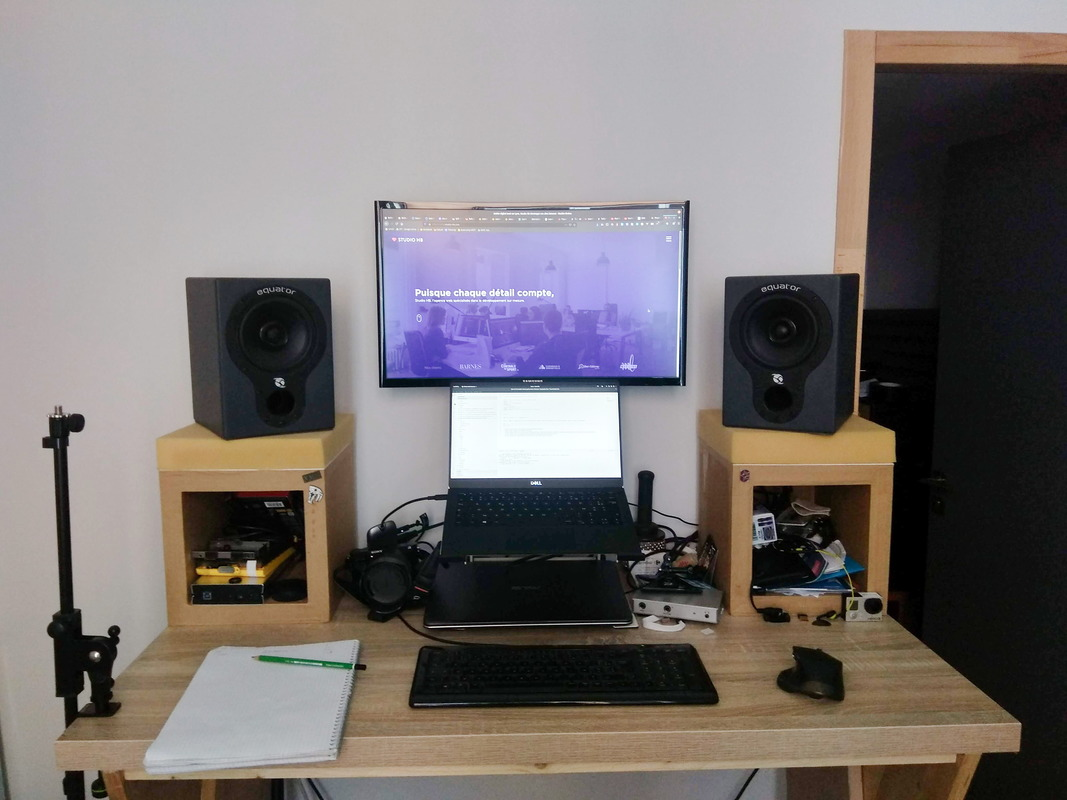
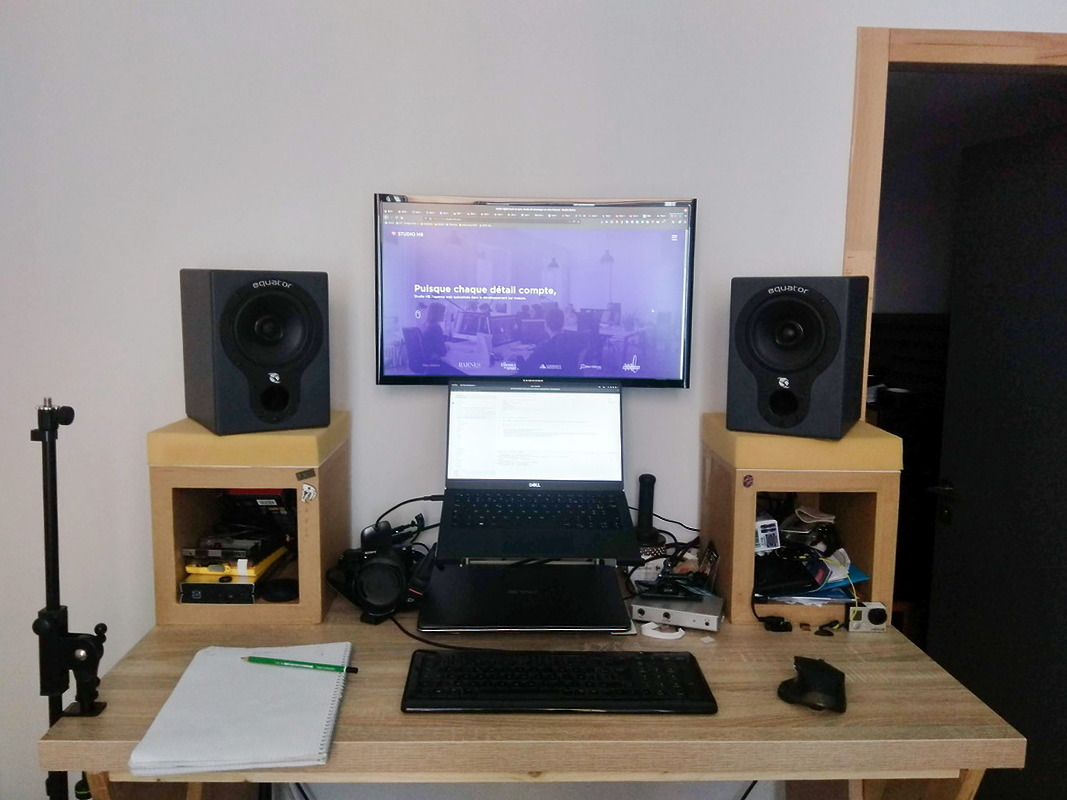
UP (article travail debout)

diff --git a/_posts/2020-09-10-travailler-debout-quelle-drole-d-idée.md b/_posts/2020-09-10-travailler-debout-quelle-drole-d-idée.md
@@ -4,26 +4,67 @@ layout: post
 author: lucasbiguetmermet
 categories:
   - Développement
-image: 2020/08/api.png
-image_caption: "Photo par: @victor_g sur Unsplash"
+image: 2020/09/linus.gif
+image_caption: "Linus Torvalds, inventeur de Linux, à son poste de travail / tapis-roulant"
 ---
 
-Intro
+En tant que développeur, je passe prêt de 7h par jour devant mon ordinateur, et comme la plupart de mes confrères (et [les trois quarts des Français](https://www.ouest-france.fr/sante/mal-de-dos-90-des-francais-assurent-en-souffrir-4872061)), j'ai fini pas developper des problèmes de dos: douleurs, faiblesses, raideurs pouvant conduire au fameux lumbago.
 
-### les dangers de la sédentarité
+Bon, se bloquer le dos c'est marrant cinq minutes, mais quand ça devient récurrent il est temps de faire quelque chose, surtout quand on n'a même pas 30 ans. J'ai donc décidé de chercher d'où ça pouvait venir.
 
-Selon l'OMS la sédentarité est un problème de santé publique mondiale, particulièrement dans les pays développés
+## Les dangers de la sédentarité
 
-## Mon setup
+Selon l'OMS la sédentarité est un problème de santé publique majeur, plus de 30% de la population mondiale est manque d'activité physique.
 
-{% include image.html img="2020/09/standup-desk-v1" caption="Le prototype" %}
-{% include image.html img="2020/09/standup-desk-v2" caption="Première version" %}
-{% include image.html img="2020/09/standup-desk-v3" caption="Seconde version avec un écran à bonne hauteur" %}
+Ces comportements ont des répercussions graves à long terme sur la santé en favorisant l'apparition de douleurs qui peuvent devenir chroniques, de troubles musculo squelettiques et en accroissant le risque de developper des maladies cardio-vasculaires, qui sont pour rappel la première cause de mortalité en France.
+
+**BONNE AMBIANCE**
+
+Pour ne rien arranger c'est un sujet plein de cercles vicieux, en effet ces troubles apparaissent progressivement à cause de postures qui n'envoient pas de signal d'alerte immédiatement: Comment cette chaise de bureau si innocente et si confortable pourrait m'en vouloir à ce point ?
+
+{% include image.html img="2020/09/back-pain-meme.jpg" caption="Open space de Studio HB: image d'archive" %}
+
+Heureusement, si on ne persiste pas trop longtemps dans ces comportements le remède est relativement simple: le mouvement ! Cependant le travail sur ordinateur n'incite pas vraiment à bouger, alors que faire ?
+
+## Travailler debout, la solution miracle ?
+
+Depuis quelques années les bureaux amovibles se démocratisent dans les open spaces, cela m'a intrigué.
+
+Suite au visionnage de cette [conférence un poil alarmiste mais néanmoins très intéressante](https://mixitconf.org/2019/sitting-considered-deadly) j'ai décidé de franchir le cap.
+
+Dans cette conférence il propose un bricolage de bureau debout pour pouvoir tester à moindre frais, j'avais justement une table d'une célebre marque de meubles Suédoise qui trainait dans mon grenier, ça m'a permit de fabriquer ce magnifique prototype:
+
+{% include image.html img="2020/09/standup-desk-v1.jpg" caption="Dans le métier on appelle ça un MVP" %}
+
+J'ai utilisé ce bureau durant quelques mois l'année dernière. Verdict: ça fait mal aux jambes et aux pieds, et je me suis rendu compte que mon corps ne savait plus se tenir debout. J'ai commencé par quelques minutes par jour, puis quand la position devient trop inconfortable je rebascule en station assise. Petit à petit j'ai pu me tenir debout sans gêne pendant plus longtemps, jusqu'à pouvoir tenir plusieurs heures (la durée d'une session de travail)
+
+Cette première expérience m'a permis de prendre conscience des limites de mon corps suite à des années de mauvaise posture, et surtout de constater qu'avec un peu de persévérance il est possible de changer ses habitudes. En ce qui concerne la diminution des douleurs, c'est compliqué à quantifier, cela dépend des jours et les premières semaines de nouvelles douleurs apparaissent à cause du changement de posture: mon dos n'avait plus la bonne "forme" ! Il faut donc être patient pour arriver à juger si un réel bénéfice est présent sur le long terme.
+
+Passée cette période d'adaptation, le bilan est plutot positif: j'ai moins de gênes et mon dos est plus mobile. Effet bonus inattendu, j'ai a priori grandi de quelques centimètres (bon, c'est à prendre avec des pincettes car je n'ai pas mesuré, mais ça m'a été confirmé par un ami qui faisait la même taille que moi)
+
+Me voila convaincu, il était temps de me construire un vrai bureau:
+
+{% include image.html img="2020/09/standup-desk-v2.jpg" caption="Les avantages du confinement: ça laisse du temps pour bricoler" %}
+
+{% include image.html img="2020/09/standup-desk-v3.jpg" caption="Seconde version avec un écran à bonne hauteur" %}
+
+Ça fait maintenant 6 mois que j'utilise ce bureau tous les jours, et j'en suis très satisfait. Couplé à une activité physique plus régulière et peu contraignante (aller au bureau en velo, 15 minutes d'exercices et étirements basiques par jour) cela a suffit pour faire disparaitre mes douleurs et surtout pour me sentir globalement mieux dans mon corps, en ce qui me concerne l'expérience est donc un succès !
+
+## Conclusion: bougez !
+
+Les études sont formelles, aucune posture n'est bénéfique lorsqu'elle est maintenue sur le long terme, travailler debout n'est donc pas la panacée. Cependant cela incite à entretenir une meilleure posture et à se déplacer plus fréquemment: ça n'est pas tant la posture en soi qui est bénéfique mais plutôt les **comportements qu'elle favorise** (on appelle ça un [nudge](https://youtu.be/E8Kaq1KLkr0) et c'est un sujet passionnant, mais je m'égare).
+
+Le mieux lorsqu'on travaille sur écran semble être d'alterner entre station debout et assise (en se tenant correctement bien sûr !), et de ne pas oublier de prendre des pauses régulièrement pour s'aérer et se dégourdir les jambes. S'il ne devait rester qu'un mot de cet article: **BOUGEZ !**
+
+Bien entendu chaque personne est différente, je vous encourage à vous approprier ces informations et trouver ce qui fonctionne pour vous, et surtout en cas de doute ou de douleurs consultez l'avis de votre kiné ou de votre medecin!
 
 ## Sources
 
-- https://mixitconf.org/2019/sitting-considered-deadly
-- http://www.standitup.org/en/#articles
-- https://www.futura-sciences.com/sante/questions-reponses/travail-travailler-debout-avantages-calories-peut-on-perdre-10159/
-- https://www.cchst.ca/oshanswers/ergonomics/standing/standing_basic.html
-- https://www.who.int/dietphysicalactivity/factsheet_inactivity/fr/
+- [https://www.ameli.fr/sites/default/files/mal-dos-mouvement-dp_assurance-maladie.pdf](https://www.ameli.fr/sites/default/files/mal-dos-mouvement-dp_assurance-maladie.pdf)
+- [https://mixitconf.org/2019/sitting-considered-deadly](https://mixitconf.org/2019/sitting-considered-deadly)
+- [https://solidarites-sante.gouv.fr/soins-et-maladies/maladies/maladies-cardiovasculaires/article/maladies-cardiovasculaires](https://solidarites-sante.gouv.fr/soins-et-maladies/maladies/maladies-cardiovasculaires/article/maladies-cardiovasculaires)
+- [http://www.standitup.org/en/#articles](http://www.standitup.org/en/#articles)
+- [https://www.futura-sciences.com/sante/questions-reponses/travail-travailler-debout-avantages-calories-peut-on-perdre-10159/](https://www.futura-sciences.com/sante/questions-reponses/travail-travailler-debout-avantages-calories-peut-on-perdre-10159/)
+- [https://www.cchst.ca/oshanswers/ergonomics/standing/standing_basic.html](https://www.cchst.ca/oshanswers/ergonomics/standing/standing_basic.html)
+- [https://www.who.int/dietphysicalactivity/factsheet_inactivity/fr/](https://www.who.int/dietphysicalactivity/factsheet_inactivity/fr/)
+- [https://www.amazon.fr/En-finir-avec-mal-dos/dp/236658055X](https://www.amazon.fr/En-finir-avec-mal-dos/dp/236658055X)
